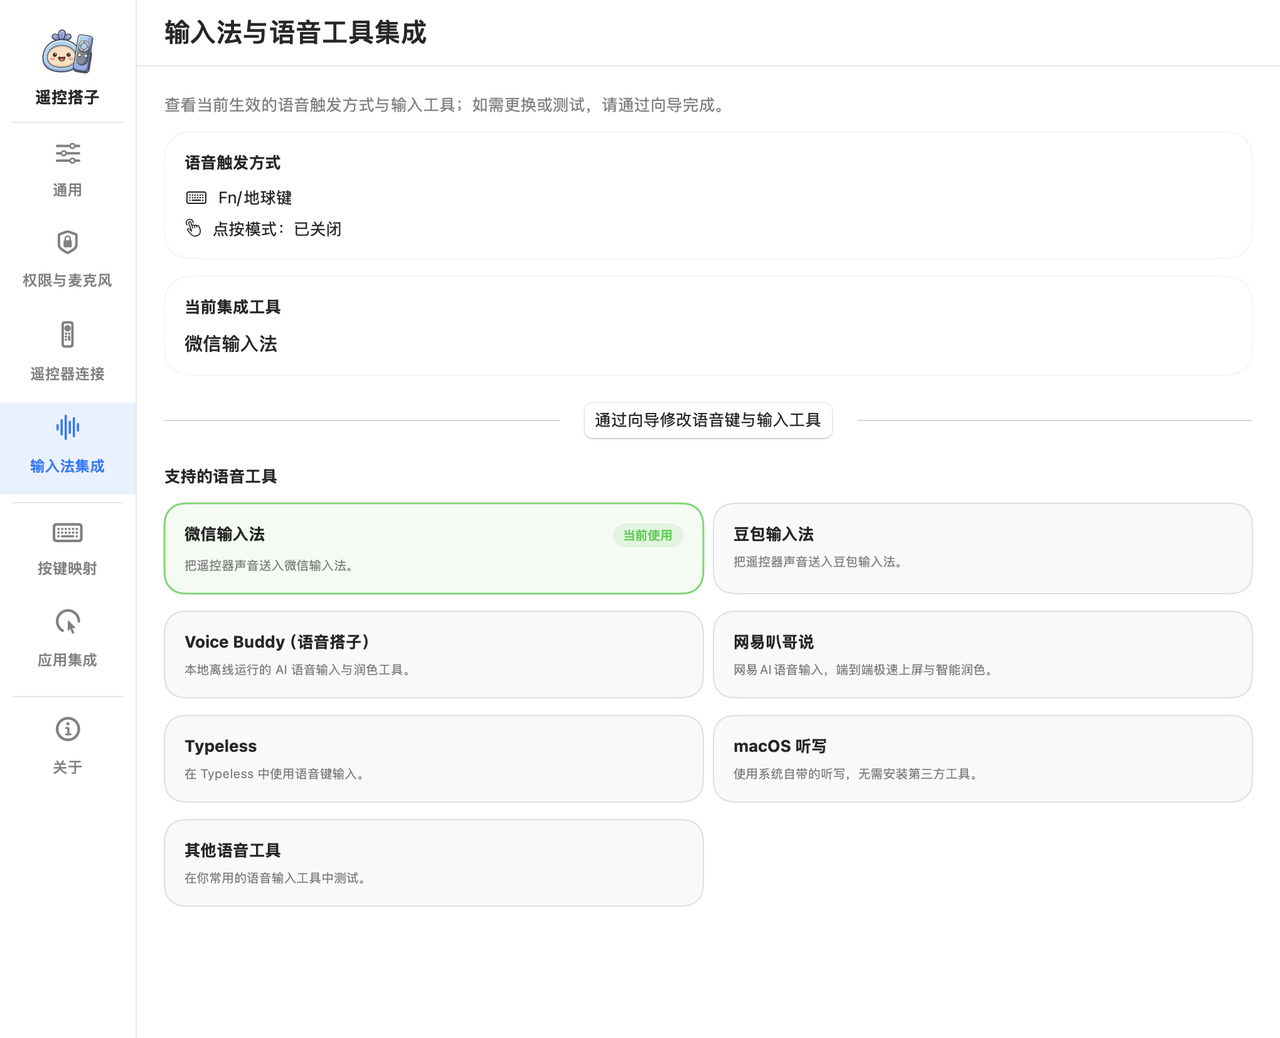
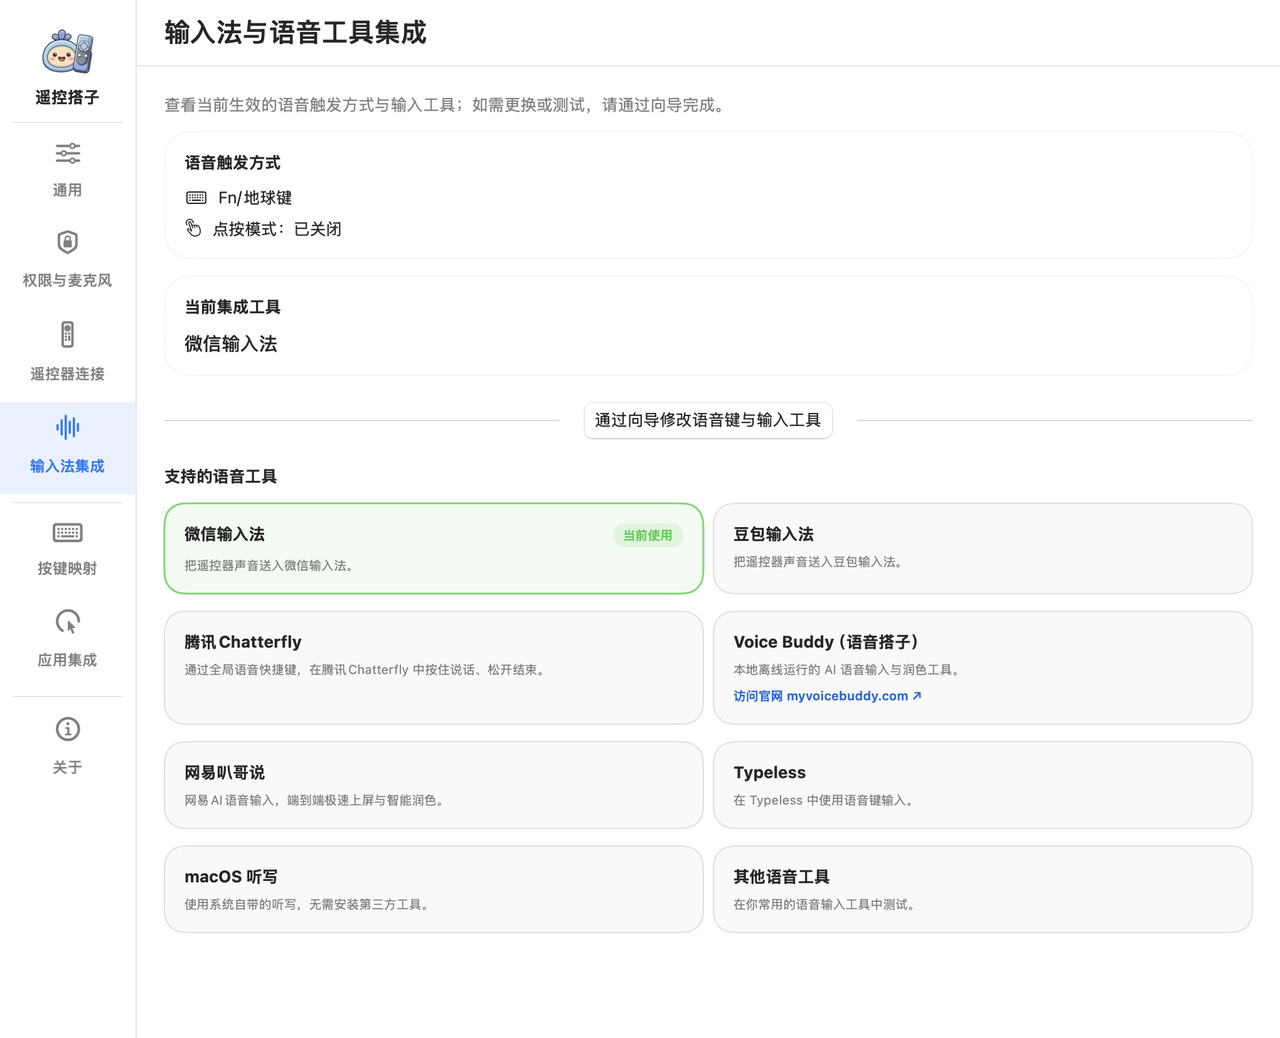
docs(pages): refresh integration screenshots and input tool copy

diff --git a/pages/index.html b/pages/index.html
@@ -85,7 +85,7 @@
   <div class="demo-links"><span>了解遥控搭子的功能与使用流程。</span><a class="text-link" href="assets/video/Remote_Buddy_Demo_Natural_zh-CN.mp4?v=261116screens" download>下载视频 ↓</a></div>
 </section>
 <section class="section wrap start" id="start"><div><p class="eyebrow">开始使用</p><h2 class="section-title">安装后，跟着向导开始。</h2><p>应用和虚拟麦克风驱动包含在同一个安装包中，可从<a href="downloads/index.html">官网镜像</a>或 <a href="https://github.com/zfdang/remote-buddy/releases/latest">GitHub Releases</a> 下载。</p><a class="text-link" href="#troubleshooting">查看常见问题排障 ↓</a></div><ol class="steps"><li><span>01</span><div><h3>安装并打开</h3><p>选择适合 Mac 芯片的安装包（PKG）完成安装，再从“应用程序”打开 Remote Buddy。</p></div></li><li><span>02</span><div><h3>授权与驱动就绪</h3><p>按向导授权蓝牙、输入监控和辅助功能，并确认 Remote Buddy Mic 虚拟麦克风驱动就绪。</p></div></li><li><span>03</span><div><h3>连接、选热键与配工具</h3><p>连接遥控器并测试按键，选择发送给输入工具的语音热键（Fn 或自定义快捷键）与点按方式，再在输入工具中完成配置。</p></div></li><li><span>04</span><div><h3>试说一句话</h3><p>通过向导中的语音测试使配置生效，点击要输入文字的位置，按住遥控器语音键说话、松开结束；点按模式则自动按热键开始与结束。</p></div></li></ol></section>
-<section class="section compatibility" id="compatibility"><div class="wrap"><p class="eyebrow">兼容范围</p><h2 class="section-title">查看设备与输入工具的适配情况。</h2><div class="compat-grid"><article><h3>遥控器</h3><div class="tools hardware"><span>小米蓝牙遥控器 2 / 2 Pro</span><span>T1 飞鼠键盘语音遥控器</span><span>Chromecast Voice Remote（G9N9N）</span><span>Google TV Streamer Voice Remote（GY3LE）</span><span>Apple Siri Remote</span></div><p>小米 2 / 2 Pro 与 T1 已适配；G9N9N 已验证版本支持语音输入及普通按键映射，版本识别见设备指南。GY3LE 与 Siri Remote 计划支持。</p><a class="text-link" href="device.html">查看各型号支持与选购指南 →</a></article><article><h3>输入工具</h3><div class="tools"><span>微信输入法</span><span>豆包输入法</span><span><a href="https://chatterfly.tencent.com/">腾讯Chatterfly</a></span><span><a href="https://myvoicebuddy.com/">Voice Buddy（语音搭子）</a></span><span>网易叭哥说</span><span>Typeless</span><span>macOS 听写</span><span>其他工具</span></div><p>选择对应工具，按向导配置 Remote Buddy Mic 和语音快捷键，再实际试说一句。</p><p class="muted">输入工具需要支持选择麦克风和设置语音快捷键。具体设置随工具版本而异，请通过向导试说确认。</p><div class="companion-box"><div class="companion-head"><span class="companion-badge">同系列自研工具</span><strong class="companion-name">Voice Buddy（语音搭子）</strong></div><p>基于 Apple Silicon 的 100% 本地离线 AI 语音输入与文本润色工具，声音与文字全程不上传云端。支持按住说话与点按切换，配合 Remote Buddy Mic 和 Fn 触发开箱即用。</p><a class="text-link" href="https://myvoicebuddy.com/">了解并下载 Voice Buddy ↗</a></div></article></div></div></section>
+<section class="section compatibility" id="compatibility"><div class="wrap"><p class="eyebrow">兼容范围</p><h2 class="section-title">查看设备与输入工具的适配情况。</h2><div class="compat-grid"><article><h3>遥控器</h3><div class="tools hardware"><span>小米蓝牙遥控器 2 / 2 Pro</span><span>T1 飞鼠键盘语音遥控器</span><span>Chromecast Voice Remote（G9N9N）</span><span>Google TV Streamer Voice Remote（GY3LE）</span><span>Apple Siri Remote</span></div><p>小米 2 / 2 Pro 与 T1 已适配；G9N9N 已验证版本支持语音输入及普通按键映射，版本识别见设备指南。GY3LE 与 Siri Remote 计划支持。</p><a class="text-link" href="device.html">查看各型号支持与选购指南 →</a></article><article><h3>输入工具</h3><div class="tools"><span>微信输入法</span><span>豆包输入法</span><span><a href="https://chatterfly.tencent.com/">腾讯Chatterfly</a></span><span><a href="https://myvoicebuddy.com/">Voice Buddy（语音搭子）</a></span><span>网易叭哥说</span><span>Typeless</span><span>macOS 听写</span><span>其他工具</span></div><p>支持系统输入法与全局快捷键语音工具：按向导配置 Remote Buddy Mic、语音热键与触发模式（按住或点按），再实际试说一句确认。</p><p class="muted">输入工具需支持选择麦克风并配置语音快捷键；腾讯Chatterfly 仅支持按住说话并需开启快捷键全局可用（无需切换系统输入法）。具体设置随工具版本而异，请通过向导试说确认。</p><div class="companion-box"><div class="companion-head"><span class="companion-badge">同系列自研工具</span><strong class="companion-name">Voice Buddy（语音搭子）</strong></div><p>基于 Apple Silicon 的 100% 本地离线 AI 语音输入与文本润色工具，声音与文字全程不上传云端。支持按住说话与点按切换，配合 Remote Buddy Mic 和 Fn 触发开箱即用。</p><a class="text-link" href="https://myvoicebuddy.com/">了解并下载 Voice Buddy ↗</a></div></article></div></div></section>
 <section class="section wrap troubleshooting" id="troubleshooting" aria-labelledby="troubleshooting-title">
   <p class="eyebrow">常见问题</p>
   <h2 class="section-title" id="troubleshooting-title">遇到按键或 Fn 语音没反应？先排查这几项。</h2>
@@ -101,7 +101,7 @@
   <details class="troubleshooting-card">
     <summary><span class="troubleshooting-question">选择 Fn 键触发语音，却没反应或被微信截获？检查微信全局快捷键占用。</span></summary>
     <div class="troubleshooting-body">
-      <p>macOS 版微信（WeChat App）可能在后台注册了全局 <strong>Fn</strong> 快捷键（例如全局语音输入或其他功能热键）。一旦被微信占用，按下遥控器发送的 <strong>Fn</strong> 会先被微信拦截，导致你选择的第三方语音输入工具（如豆包、微信输入法、Typeless 等）无法收到触发信号。</p>
+      <p>macOS 版微信（WeChat App）可能在后台注册了全局 <strong>Fn</strong> 快捷键（例如全局语音输入或其他功能热键）。一旦被微信占用，按下遥控器发送的 <strong>Fn</strong> 会先被微信拦截，导致你选择的第三方语音输入工具（如豆包、微信输入法、腾讯Chatterfly、Typeless 等）无法收到触发信号。</p>
       <ol><li>打开桌面端<strong>微信 → 设置 → 快捷键</strong>（部分版本在聊天/通用设置内）。</li><li>检查是否存在占用 <strong>Fn</strong>（或 <strong>🌐 地球键</strong>）的全局快捷键，尤其是语音输入相关热键。</li><li>如有冲突，请更换或<strong>仅清除冲突的 Fn 快捷键</strong>（无需修改微信其他快捷键）。</li><li>返回目标输入工具或遥控搭子的向导测试页，重新按下遥控器语音键试说一句。</li></ol>
       <p>如果无法取消微信对 Fn 的占用，也可以在“输入法集成 → 语音热键”中改用 <strong>Ctrl (⌃) + Option (⌥) + V</strong> 等其他组合快捷键。</p>
     </div>
@@ -140,6 +140,6 @@
 </section>
 </main>
 <footer class="wrap"><div><strong>Remote Buddy</strong><p>用遥控器，随手说。</p></div><div class="footer-links"><a href="downloads/index.html">官网下载</a><a href="device.html">支持设备</a><a href="https://github.com/zfdang/remote-buddy/releases">GitHub Releases</a><a href="https://github.com/zfdang/remote-buddy/blob/main/README.md">项目文档</a><a href="https://github.com/zfdang/remote-buddy/issues">反馈</a><a href="https://github.com/zfdang/remote-buddy/blob/main/LICENSE">GPL-3.0-only</a></div></footer>
-<script src="demo.js?v=261116screens"></script>
+<script src="demo.js?v=261118screens"></script>
 </body>
 </html>

diff --git a/pages/index.en.html b/pages/index.en.html
@@ -85,7 +85,7 @@
   <div class="demo-links"><span>An overview of Remote Buddy’s features and setup.</span><a class="text-link" href="assets/video/Remote_Buddy_Demo_Natural_zh-CN.mp4?v=261116screens" download>Download video ↓</a></div>
 </section>
 <section class="section wrap start" id="start"><div><p class="eyebrow">GET STARTED</p><h2 class="section-title">Install, then follow the setup guide.</h2><p>One installer includes the app and virtual microphone driver. Download via the <a href="downloads/index.en.html">website mirror</a> or <a href="https://github.com/zfdang/remote-buddy/releases/latest">GitHub Releases</a>.</p><a class="text-link" href="#troubleshooting">Common troubleshooting ↓</a></div><ol class="steps"><li><span>01</span><div><h3>Install and open</h3><p>Download the PKG for your Mac architecture, finish installation, and open Remote Buddy in Applications.</p></div></li><li><span>02</span><div><h3>Permissions &amp; audio driver</h3><p>Follow the guide for Bluetooth, Input Monitoring, Accessibility permissions, and Remote Buddy Mic readiness.</p></div></li><li><span>03</span><div><h3>Connect, shortcut, &amp; tool</h3><p>Pair your remote, test buttons, choose a voice shortcut (Fn/Globe or custom) and Hold/Tap mode, then configure your input tool to match.</p></div></li><li><span>04</span><div><h3>Try a sentence</h3><p>Pass the voice test to activate the setup, then click where you want to type and speak using the remote voice button.</p></div></li></ol></section>
-<section class="section compatibility" id="compatibility"><div class="wrap"><p class="eyebrow">COMPATIBILITY</p><h2 class="section-title">Check device and input tool compatibility.</h2><div class="compat-grid"><article><h3>Remotes</h3><div class="tools hardware"><span>Xiaomi Bluetooth Remote 2 / 2 Pro</span><span>T1 Air-Mouse &amp; Keyboard Voice Remote</span><span>Chromecast Voice Remote (G9N9N)</span><span>Google TV Streamer Voice Remote (GY3LE)</span><span>Apple Siri Remote</span></div><p>Xiaomi 2 / 2 Pro and T1 are supported. Validated G9N9N versions support voice input and button mapping; see the device guide for identification. GY3LE and Siri Remote support is planned.</p><a class="text-link" href="device_en.html">See support &amp; buying guide by model →</a></article><article><h3>Input Tools</h3><div class="tools"><span>WeType</span><span>Doubao</span><span><a href="https://chatterfly.tencent.com/">Tencent Chatterfly</a></span><span><a href="https://myvoicebuddy.com/en.html">Voice Buddy</a></span><span>NetEase Bageshuo</span><span>Typeless</span><span>macOS Dictation</span><span>Other tools</span></div><p>Choose your tool, follow the guide to configure Remote Buddy Mic and the voice shortcut, then try a spoken sentence.</p><p class="muted">Your tool needs microphone selection and a configurable voice shortcut. Settings vary by version; use the guide’s voice test to check your setup.</p><div class="companion-box"><div class="companion-head"><span class="companion-badge">COMPANION APP</span><strong class="companion-name">Voice Buddy</strong></div><p>Our 100% local, offline AI speech-to-text and text-polishing app for Apple Silicon—no cloud uploads required. Supports both Hold and Toggle modes and works out of the box with Remote Buddy Mic and Fn trigger.</p><a class="text-link" href="https://myvoicebuddy.com/en.html">Explore Voice Buddy (myvoicebuddy.com) ↗</a></div></article></div></div></section>
+<section class="section compatibility" id="compatibility"><div class="wrap"><p class="eyebrow">COMPATIBILITY</p><h2 class="section-title">Check device and input tool compatibility.</h2><div class="compat-grid"><article><h3>Remotes</h3><div class="tools hardware"><span>Xiaomi Bluetooth Remote 2 / 2 Pro</span><span>T1 Air-Mouse &amp; Keyboard Voice Remote</span><span>Chromecast Voice Remote (G9N9N)</span><span>Google TV Streamer Voice Remote (GY3LE)</span><span>Apple Siri Remote</span></div><p>Xiaomi 2 / 2 Pro and T1 are supported. Validated G9N9N versions support voice input and button mapping; see the device guide for identification. GY3LE and Siri Remote support is planned.</p><a class="text-link" href="device_en.html">See support &amp; buying guide by model →</a></article><article><h3>Input Tools</h3><div class="tools"><span>WeType</span><span>Doubao</span><span><a href="https://chatterfly.tencent.com/">Tencent Chatterfly</a></span><span><a href="https://myvoicebuddy.com/en.html">Voice Buddy</a></span><span>NetEase Bageshuo</span><span>Typeless</span><span>macOS Dictation</span><span>Other tools</span></div><p>Supports both input methods and global-shortcut voice apps: follow the guide to configure Remote Buddy Mic, your voice shortcut, and Hold/Tap mode, then try a spoken sentence.</p><p class="muted">Your tool needs microphone selection and a configurable voice shortcut. Tencent Chatterfly uses hold-to-talk with its global shortcut enabled and does not switch your system input source; settings vary by tool version.</p><div class="companion-box"><div class="companion-head"><span class="companion-badge">COMPANION APP</span><strong class="companion-name">Voice Buddy</strong></div><p>Our 100% local, offline AI speech-to-text and text-polishing app for Apple Silicon—no cloud uploads required. Supports both Hold and Toggle modes and works out of the box with Remote Buddy Mic and Fn trigger.</p><a class="text-link" href="https://myvoicebuddy.com/en.html">Explore Voice Buddy (myvoicebuddy.com) ↗</a></div></article></div></div></section>
 <section class="section wrap troubleshooting" id="troubleshooting" aria-labelledby="troubleshooting-title">
   <p class="eyebrow">TROUBLESHOOTING</p>
   <h2 class="section-title" id="troubleshooting-title">Buttons or Fn voice trigger not working? Check these first.</h2>
@@ -101,7 +101,7 @@
   <details class="troubleshooting-card">
     <summary><span class="troubleshooting-question">Chose Fn as your voice shortcut, but WeChat hijacks it? Clear WeChat’s global Fn shortcut.</span></summary>
     <div class="troubleshooting-body">
-      <p>The WeChat macOS desktop app can register <strong>Fn</strong> as a global shortcut (such as global voice input or another hotkey). While WeChat holds that global shortcut, pressing your remote’s voice button sends <strong>Fn</strong> to WeChat instead of your chosen input tool (Doubao, WeType, Typeless, etc.).</p>
+      <p>The WeChat macOS desktop app can register <strong>Fn</strong> as a global shortcut (such as global voice input or another hotkey). While WeChat holds that global shortcut, pressing your remote’s voice button sends <strong>Fn</strong> to WeChat instead of your chosen input tool (Doubao, WeType, Tencent Chatterfly, Typeless, etc.).</p>
       <ol><li>Open the <strong>WeChat desktop app → Settings → Shortcuts</strong>.</li><li>Check whether any global shortcut—especially a voice shortcut—is bound to <strong>Fn</strong> (or the <strong>🌐 Globe key</strong>).</li><li>If it conflicts, reassign or <strong>clear only the conflicting Fn shortcut</strong> (you can leave all other WeChat shortcuts as-is).</li><li>Return to your input tool or Buddy’s Voice Test step and press the remote voice button again.</li></ol>
       <p>If you prefer to keep WeChat’s Fn binding, switch Buddy’s voice shortcut in <strong>Input Tools → Voice Shortcut</strong> to another combination such as <strong>Ctrl (⌃) + Option (⌥) + V</strong>.</p>
     </div>
@@ -140,6 +140,6 @@
 </section>
 </main>
 <footer class="wrap"><div><strong>Remote Buddy</strong><p>Voice input, at the press of a button.</p></div><div class="footer-links"><a href="downloads/index.en.html">Website Download</a><a href="device_en.html">Supported Remotes</a><a href="https://github.com/zfdang/remote-buddy/releases">GitHub Releases</a><a href="https://github.com/zfdang/remote-buddy/blob/main/README.en.md">Docs &amp; References</a><a href="https://github.com/zfdang/remote-buddy/issues">Feedback</a><a href="https://github.com/zfdang/remote-buddy/blob/main/LICENSE">GPL-3.0-only</a></div></footer>
-<script src="demo.js?v=261116screens"></script>
+<script src="demo.js?v=261118screens"></script>
 </body>
 </html>

diff --git a/pages/demo.js b/pages/demo.js
@@ -62,9 +62,9 @@ button.addEventListener('blur', stop);
         title: '输入法集成',
         badge: '语音工具',
         windowTitle: '输入法与语音工具集成 · Remote Buddy',
-        src: 'assets/screenshots/integration-zh.jpg?v=261117screens',
-        alt: 'Remote Buddy 输入法与语音工具集成界面：当前语音触发方式及受支持语音工具的配置入口',
-        desc: '查看当前语音触发方式（热键与点按模式）和已选择的输入工具，通过向导调整热键、配置输入工具并完成语音测试生效。'
+        src: 'assets/screenshots/integration-zh.jpg?v=261118screens',
+        alt: 'Remote Buddy 输入法与语音工具集成界面：当前语音触发方式及微信输入法、豆包、腾讯Chatterfly、Voice Buddy 等受支持语音工具列表',
+        desc: '查看当前语音触发方式（热键与点按模式）和已选择的输入工具，支持微信输入法、豆包输入法、腾讯Chatterfly、Voice Buddy、网易叭哥说、Typeless、macOS 听写等；通过向导调整热键、配置工具并完成语音测试生效。'
       },
       {
         title: '按键映射',
@@ -144,9 +144,9 @@ button.addEventListener('blur', stop);
         title: '第 6 步 · 输入工具',
         badge: '向导 · 工具设置',
         windowTitle: '输入工具 · 首次使用向导',
-        src: 'assets/screenshots/wizard-tool-zh.jpg?v=261117screens',
-        alt: '首次使用向导：输入工具选择与图文分步设置指引，包含微信输入法、豆包等操作步骤',
-        desc: '选择输入法或听写工具，按右侧步骤完成麦克风与对应语音热键及录音模式设置；也可点击一键切换当前系统输入法。'
+        src: 'assets/screenshots/wizard-tool-zh.jpg?v=261118screens',
+        alt: '首次使用向导：输入工具选择与图文分步设置指引，包含微信输入法、豆包、腾讯Chatterfly 等工具',
+        desc: '选择输入法或语音工具（含微信输入法、豆包输入法、腾讯Chatterfly、Voice Buddy、网易叭哥说、Typeless、macOS 听写等），按右侧图文步骤配置麦克风与语音热键；需系统输入法切换的工具可一键切换。'
       },
       {
         title: '第 7 步 · 语音测试',
@@ -189,9 +189,9 @@ button.addEventListener('blur', stop);
         title: 'Voice Tools',
         badge: 'Integrations',
         windowTitle: 'Voice Tools Integration · Remote Buddy',
-        src: 'assets/screenshots/integration-en.jpg?v=261117screens',
-        alt: 'Remote Buddy Voice Tools interface: current voice trigger and setup guides for supported voice tools',
-        desc: 'Review the active voice trigger shortcut, tap mode, and selected input tool, then launch the integration wizard to customize hotkeys, configure your tool, and verify with a voice test.'
+        src: 'assets/screenshots/integration-en.jpg?v=261118screens',
+        alt: 'Remote Buddy Voice Tools interface: current voice trigger and supported tools including WeType, Doubao, Tencent Chatterfly, and Voice Buddy',
+        desc: 'Review the active voice trigger shortcut, tap mode, and selected tool (supporting WeType, Doubao, Tencent Chatterfly, Voice Buddy, NetEase Bageshuo, Typeless, macOS Dictation, and more), then launch the wizard to customize hotkeys and verify with a voice test.'
       },
       {
         title: 'Button Mapping',
@@ -271,9 +271,9 @@ button.addEventListener('blur', stop);
         title: 'Step 6 · Input Tool',
         badge: 'Wizard · Tool Setup',
         windowTitle: 'Input Tool · Setup Wizard',
-        src: 'assets/screenshots/wizard-tool-en.jpg?v=261117screens',
-        alt: 'Setup Wizard: Voice input tool selection with visual step-by-step setup guides',
-        desc: 'Choose your input method or dictation tool and follow the guided steps on the right to configure Remote Buddy Mic and your voice shortcut.'
+        src: 'assets/screenshots/wizard-tool-en.jpg?v=261118screens',
+        alt: 'Setup Wizard: Voice input tool selection (WeType, Doubao, Tencent Chatterfly, Voice Buddy, etc.) with visual step-by-step setup guides',
+        desc: 'Choose your input method or voice tool (WeType, Doubao, Tencent Chatterfly, Voice Buddy, NetEase Bageshuo, Typeless, macOS Dictation, or other tools) and follow the guided steps on the right to configure Remote Buddy Mic and your voice shortcut.'
       },
       {
         title: 'Step 7 · Voice Test',

diff --git a/docs/provenance.md b/docs/provenance.md
@@ -20,4 +20,4 @@
 
 README 另使用维护者于 2026-11-16 提供的三张真实应用截图：`readme-connection.jpg`、`readme-integration.jpg` 和 `readme-mapping.jpg`，分别展示双遥控器连接、输入法集成和 G9N9N 按键映射。这三张 JPEG 通过 `jpegtran` 无损优化并移除元数据，保留原始像素和分辨率；README 的显示宽度为 640。它们与自动渲染的示例截图分开维护。
 
-腾讯Chatterfly 的两张浅色向导截图由维护者于 2026-11-18 提供，分别展示语音快捷键与全局可用设置、Remote Buddy Mic 选择。设置截图裁去含商标与账号的侧栏，最长边不超过 1600 像素，以压缩 JPEG 保存；深色界面回退到同一浅色截图。
+腾讯Chatterfly 的两张浅色向导截图由维护者于 2026-11-18 提供，分别展示语音快捷键与全局可用设置、Remote Buddy Mic 选择。设置截图裁去含商标与账号的侧栏，最长边不超过 1600 像素，以压缩 JPEG 保存；深色界面回退到同一浅色截图。网页的 `integration-*`、`wizard-tool-*` 与 README 的 `readme-integration.jpg` 于 2026-11-18 使用当前源码的 Debug App 重新渲染以包含腾讯Chatterfly。
